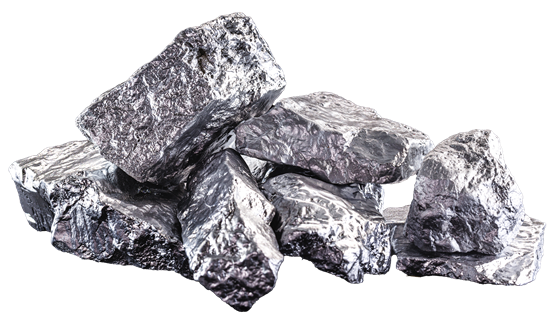
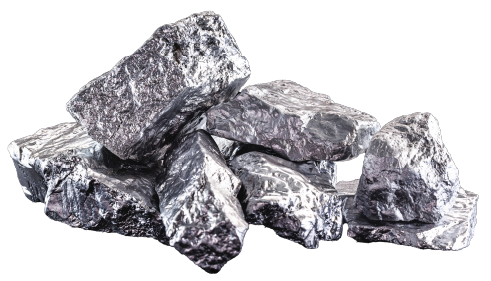
Home wall subtitle, station 5 era (11th century), new precious-metals image, no 'כל הכבוד' on the functional summary, new Goldberg and Tchernichovsky notes

diff --git a/js/data.js b/js/data.js
@@ -16,7 +16,7 @@ const SETS = {
   functional: { title: "אימון פונקציונלי", sub: "התפתחות אמצעי התשלום", total: 100 },   // 48 items × 2 + 4 bonus
   ladder:     { title: "סולם ערכים",       sub: "דמויות וסמלים על השטרות", total: 100 },   // figures 6×4, symbols 6×4, notes 4×2.5, coins 6×3, colours 6×4
   pulley:     { title: "פולי הביטחון",     sub: "זיהוי סימני ביטחון",   total: 100 },   // exercise 1: 12, exercises 2–7: 13 each
-  wall:       { title: "קיר טיפוס",        sub: "מעגל החיים של השטרות והמעות", total: 100 }
+  wall:       { title: "קיר טיפוס",        sub: "תחנות בחיי השטרות והמעות", total: 100 }
 };
 
 /* the sets' films: TV screen, PLAY shows "סרטון יתווסף בהמשך" until there is a film. Scenes = [narration, what we see, caption] */
@@ -133,7 +133,7 @@ const DATA = {
           text: "זהב וכסף הפכו לאמצעי תשלום בזכות היותם עמידים, נדירים ובעלי ערך." },
         { key: "coins", label: "המטבעות הראשונים", when: "החל מהמאה ה-7 לפני הספירה", img: "era-coin.png", station: "לאנג'ים",
           text: "החלו לייצר מטבעות בעלי משקל וערך קבועים, שהפכו את המסחר לפשוט ואמין יותר." },
-        { key: "notes", label: "השטרות הראשונים", when: "החל מהמאה ה-10 לספירה", img: "era-note.png", station: "שכיבות סמיכה",
+        { key: "notes", label: "השטרות הראשונים", when: "החל מהמאה ה-11 לספירה", img: "era-note.png", station: "שכיבות סמיכה",
           text: "השטרות מאפשרים לבצע עסקאות גדולות בלי לשאת כמויות גדולות של מתכת." },
         { key: "digital", label: "אמצעי תשלום דיגיטליים", when: "החל מהמאה ה-20", img: "era-digital.png", station: "ספרינט",
           text: "כרטיסי אשראי, אפליקציות תשלום ואמצעים דיגיטליים הפכו את התשלום למהיר ונוח יותר." }
@@ -261,7 +261,7 @@ const DATA = {
     {
       id: "f-sum", scene: "אימון פונקציונלי", name: "סיכום – אימון פונקציונלי", type: "summary", set: "functional",
       tag: "אימון פונקציונלי", hero: "adam-flex",
-      title: "כל הכבוד! סיימתם את האימון הפונקציונלי",
+      title: "סיימתם את האימון הפונקציונלי",
       learned: "לאורך ההיסטוריה התפתחו אמצעי התשלום בהתאם לצרכים המשתנים של החברה:",
       bullets: ["סחר חליפין", "כסף סחיר", "מתכות יקרות", "המטבעות הראשונים", "השטרות הראשונים", "אמצעי תשלום דיגיטליים"],   // the six stations, in order
       closing: "כל שלב פתר בעיה של השלב שלפניו – והפך את המסחר לפשוט, אמין ונוח יותר.",

diff --git a/js/app.js b/js/app.js
@@ -178,7 +178,7 @@
   /* banknote image or a placeholder card (a banknote still missing from the assets) */
   const BN_NAT = { "szold-5": [540, 315], "shazar-200": [820, 448], "leah-100": [820, 403], "montefiore-1": [540, 302], "sharett-20": [820, 448], "agnon-50": [820, 451], "alterman-200": [819, 386], "bengurion-50": [519, 258], "einstein-5": [519, 256], "eshkol-5000": [516, 283],
     "golda-10000": [517, 286], "herzl-10": [519, 265], "rachel-20": [820, 447], "rambam-1000": [518, 282], "rothschild-500": [519, 288],
-    "tchernichovsky-50": [428, 222] };
+    "tchernichovsky-50": [820, 425] };
   // centre of the portrait on each note (x, y as a fraction) and the width of the crop (fraction of the note)
   const PORTRAIT = { "szold-5": [.74, .5, .38], "shazar-200": [.73, .52, .38], "leah-100": [.74, .42, .25], "montefiore-1": [.72, .52, .34], "sharett-20": [.72, .5, .38], "agnon-50": [.73, .5, .4], "alterman-200": [.65, .42, .36], "bengurion-50": [.63, .48, .4], "einstein-5": [.79, .55, .3], "eshkol-5000": [.8, .42, .36],
     "golda-10000": [.79, .45, .36], "herzl-10": [.5, .52, .34], "rachel-20": [.64, .45, .34], "rambam-1000": [.74, .47, .4],
